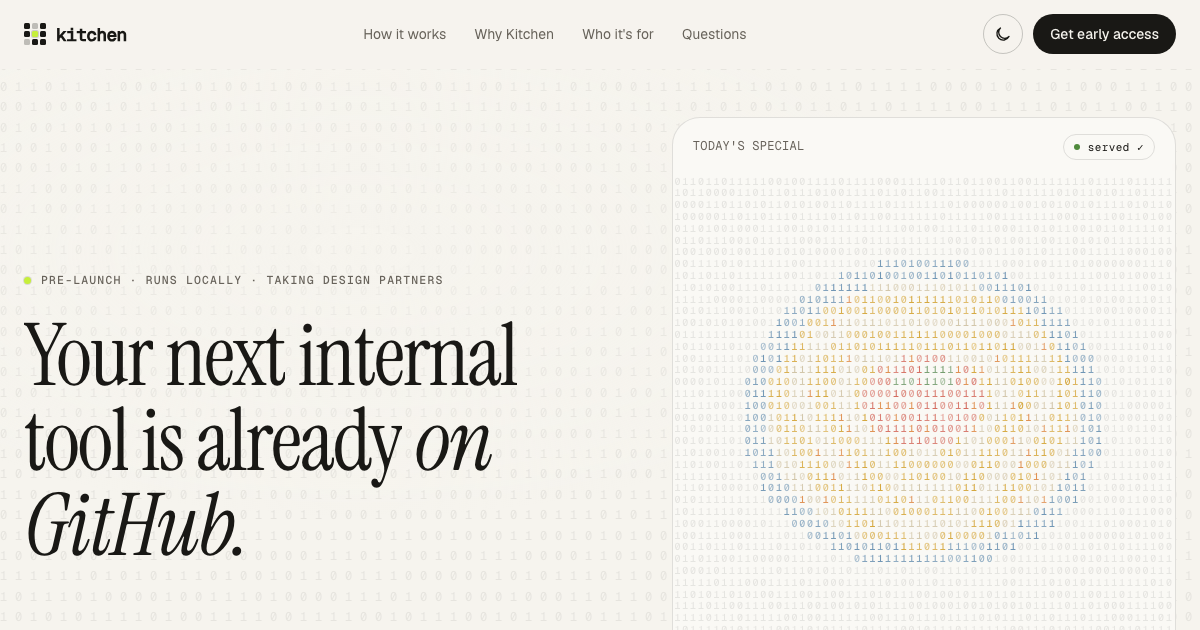
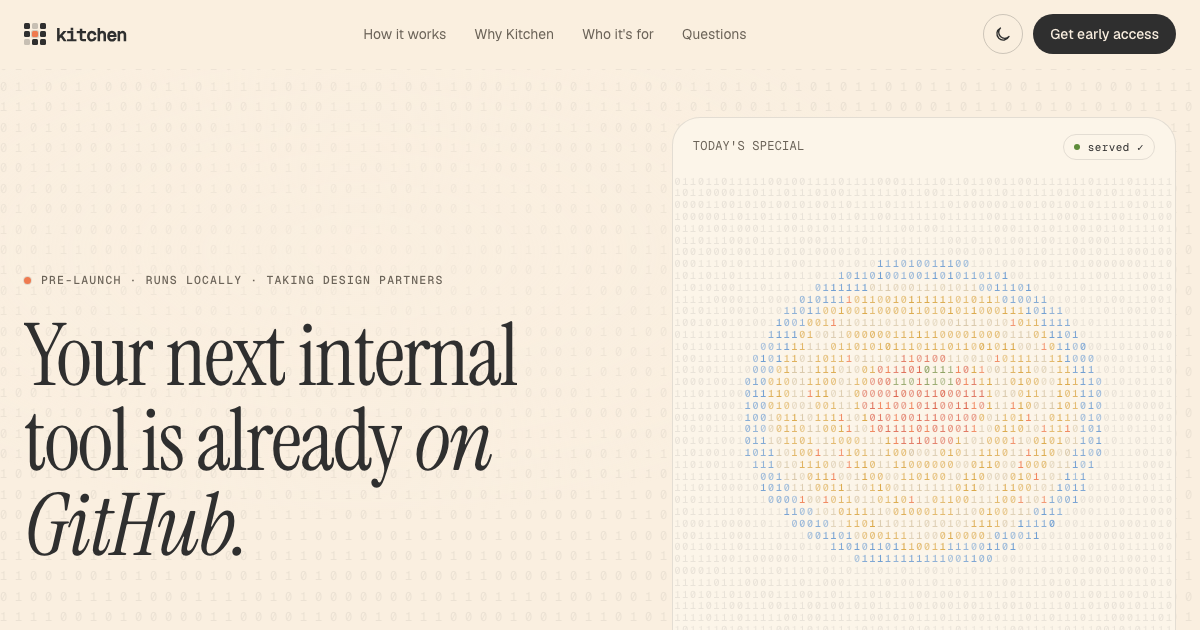
Switch to the brand brief palette: cream, navy, coral, sky
Replaces the black and lime look with the colours from the Kitchen brief.
Light mode is cream paper with ink, coral as the one accent and sky-blue steam;
night mode is navy with cream text. Binary art, favicon, theme-color and og.png
follow the new palette.

diff --git a/site/css/styles.css b/site/css/styles.css
@@ -1,4 +1,4 @@
-/* Kitchen · warm paper, ink, one lime accent, and food made of binary. */
+/* Kitchen · cream paper, ink, navy nights, one coral accent, and food made of binary. */
 
 /* Stand-ins sized to match the real fonts, so nothing moves when Google Fonts arrive.
    Numbers measured against Instrument Serif, Geist and Geist Mono in Chrome. */
@@ -9,31 +9,31 @@
 
 :root {
   color-scheme: light;
-  --paper: #f6f4ee;
-  --paper-2: #fbfaf6;
-  --card: #efece4;
-  --ink: #191815;
-  --muted: #67625a;
-  --line: rgba(25, 24, 21, 0.12);
-  --line-strong: rgba(25, 24, 21, 0.22);
-  --mark: #c6ef3a;
-  --mark-ink: #1b2106;
-  --ok: #4f8a3c;
-  --band: #191815;
-  --band-ink: #f1eee6;
-  --band-muted: #a7a297;
+  --paper: #faefe0;
+  --paper-2: #fdf6ec;
+  --card: #f3e4cf;
+  --ink: #2f2f2f;
+  --muted: #6b6358;
+  --line: rgba(47, 47, 47, 0.12);
+  --line-strong: rgba(47, 47, 47, 0.22);
+  --mark: #ef7a4f;
+  --mark-ink: #2f2f2f;
+  --ok: #5e8c3a;
+  --band: #14213a;
+  --band-ink: #f1e7d6;
+  --band-muted: #aab3c4;
 
   /* colours the binary art lights up in */
-  --art-ink: #2a2925;
-  --art-tomato: #cf5a4c;
-  --art-carrot: #dc8540;
-  --art-leaf: #5f8f5a;
-  --art-pasta: #d3a334;
-  --art-pot: #5d88ab;
-  --art-cream: #bfae86;
-  --art-steam: #9a958a;
-  --art-field: #191815;
-  --art-mark: #86b80c;
+  --art-ink: #2f2f2f;
+  --art-tomato: #d9573f;
+  --art-carrot: #ef7a4f;
+  --art-leaf: #7f9650;
+  --art-pasta: #d9a441;
+  --art-pot: #5e93cf;
+  --art-cream: #c9b48e;
+  --art-steam: #6fa3dc;
+  --art-field: #2f2f2f;
+  --art-mark: #ef7a4f;
   --field-alpha: 0.075;
   /* light digits on a dark page read much louder than dark on paper, so dark mode quiets the
      empty cells inside the art and makes the food colours more solid */
@@ -49,28 +49,30 @@
 
 :root[data-theme="dark"] {
   color-scheme: dark;
-  --paper: #11110e;
-  --paper-2: #171713;
-  --card: #1c1c18;
-  --ink: #f1eee6;
-  --muted: #a19c91;
-  --line: rgba(241, 238, 230, 0.12);
-  --line-strong: rgba(241, 238, 230, 0.24);
-  --ok: #a6cf7a;
-  --band: #1f1e19;
-  --band-ink: #f1eee6;
-  --band-muted: #a19c91;
+  --paper: #14213a;
+  --paper-2: #192843;
+  --card: #24365a;
+  --ink: #f1e7d6;
+  --muted: #aab3c4;
+  --line: rgba(241, 231, 214, 0.12);
+  --line-strong: rgba(241, 231, 214, 0.24);
+  --mark: #f08a60;
+  --mark-ink: #14213a;
+  --ok: #a9c47a;
+  --band: #0e182c;
+  --band-ink: #f1e7d6;
+  --band-muted: #aab3c4;
 
-  --art-ink: #ece8dd;
-  --art-tomato: #e4735f;
-  --art-carrot: #eb9a52;
-  --art-leaf: #8cbb80;
-  --art-pasta: #ecc65c;
-  --art-pot: #7eaad0;
-  --art-cream: #d9cca9;
-  --art-steam: #b4d36a; /* steam glows faintly lime at night */
-  --art-field: #f1eee6;
-  --art-mark: #c6ef3a;
+  --art-ink: #f1e7d6;
+  --art-tomato: #e8705a;
+  --art-carrot: #f08a60;
+  --art-leaf: #a9c47a;
+  --art-pasta: #e8bf6a;
+  --art-pot: #7fb0e6;
+  --art-cream: #e8dcc4;
+  --art-steam: #8db4e2; /* steam stays sky blue at night */
+  --art-field: #f1e7d6;
+  --art-mark: #f08a60;
   --field-alpha: 0.04;
   --art-field-scale: 0.38;
   --art-lift: 0.22;
@@ -481,8 +483,8 @@ ul, ol { padding: 0; list-style: none; }
   justify-self: center;
   width: min(360px, 100%);
   padding: 30px 26px 34px;
-  background: #fbf9f3;
-  color: #191815;
+  background: #fffaf2;
+  color: #2f2f2f;
   font-family: var(--mono);
   font-size: 13px;
   transform: rotate(-2.5deg) translateY(26px);
@@ -498,7 +500,7 @@ ul, ol { padding: 0; list-style: none; }
 .receipt li, .receipt-total { display: flex; justify-content: space-between; gap: 12px; }
 .receipt li b { font-weight: 500; }
 .receipt-total { padding: 16px 0; font-size: 15px; font-weight: 600; border-bottom: 1px dashed #c9c3b5; }
-.receipt-total b { background: #c6ef3a; padding: 0 6px; border-radius: 4px; }
+.receipt-total b { background: #ef7a4f; padding: 0 6px; border-radius: 4px; }
 .receipt-foot { text-align: center; margin-top: 16px; }
 
 /* ---------- who's at the table ---------- */

diff --git a/site/index.html b/site/index.html
@@ -17,7 +17,7 @@
   <meta property="og:image:height" content="630">
   <meta name="twitter:card" content="summary_large_image">
   <meta name="twitter:image" content="https://trykitchen.ai/og.png">
-  <meta name="theme-color" content="#f6f4ee">
+  <meta name="theme-color" content="#faefe0">
   <link rel="icon" href="favicon.svg" type="image/svg+xml">
   <link rel="apple-touch-icon" href="apple-touch-icon.png">
 
@@ -65,7 +65,7 @@
   <!-- fonts load without holding up first paint; text shows in a fallback face for a moment -->
   <link rel="preload" as="style" href="https://fonts.googleapis.com/css2?family=Geist:wght@400;500;600&amp;family=Geist+Mono:wght@400;500&amp;family=Instrument+Serif:ital@0;1&amp;display=swap" onload="this.onload=null;this.rel='stylesheet'">
   <noscript><link rel="stylesheet" href="https://fonts.googleapis.com/css2?family=Geist:wght@400;500;600&amp;family=Geist+Mono:wght@400;500&amp;family=Instrument+Serif:ital@0;1&amp;display=swap"></noscript>
-  <link rel="stylesheet" href="css/styles.css?v=11">
+  <link rel="stylesheet" href="css/styles.css?v=12">
 </head>
 <body>
   <!--
@@ -570,7 +570,7 @@
     </div>
   </footer>
 
-  <script src="js/binary.js?v=11" defer></script>
-  <script src="js/main.js?v=11" defer></script>
+  <script src="js/binary.js?v=12" defer></script>
+  <script src="js/main.js?v=12" defer></script>
 </body>
 </html>

diff --git a/site/404.html b/site/404.html
@@ -16,7 +16,7 @@
   <link rel="preconnect" href="https://fonts.googleapis.com">
   <link rel="preconnect" href="https://fonts.gstatic.com" crossorigin>
   <link rel="stylesheet" href="https://fonts.googleapis.com/css2?family=Geist:wght@400;500;600&family=Geist+Mono:wght@400;500&family=Instrument+Serif:ital@0;1&display=swap">
-  <link rel="stylesheet" href="/css/styles.css?v=11">
+  <link rel="stylesheet" href="/css/styles.css?v=12">
 </head>
 <body>
   <div class="field" aria-hidden="true">
@@ -47,8 +47,8 @@
       <a class="btn btn-ink load" style="--d:3" href="/">Back to the kitchen</a>
     </div>
   </main>
-  <script src="/js/binary.js?v=11" defer></script>
-  <script src="/js/main.js?v=11" defer></script>
+  <script src="/js/binary.js?v=12" defer></script>
+  <script src="/js/main.js?v=12" defer></script>
   <script>
     addEventListener('DOMContentLoaded', function () {
       KitchenBinary.create(document.getElementById('lost-art'), { font: 10, field: 0.08, onFirstView: function (a) { a.setScene('plate'); } });

diff --git a/site/js/main.js b/site/js/main.js
@@ -17,7 +17,7 @@
     doc.dataset.theme = t;
     if (save) { try { localStorage.setItem('kitchen-theme', t); } catch (e) {} }
     var meta = $('meta[name="theme-color"]');
-    if (meta) meta.setAttribute('content', t === 'dark' ? '#11110e' : '#f6f4ee');
+    if (meta) meta.setAttribute('content', t === 'dark' ? '#14213a' : '#faefe0');
     if (themeBtn) themeBtn.setAttribute('aria-label', t === 'dark' ? 'Switch to light mode' : 'Switch to dark mode');
     if (KB) requestAnimationFrame(KB.refresh);
   }
